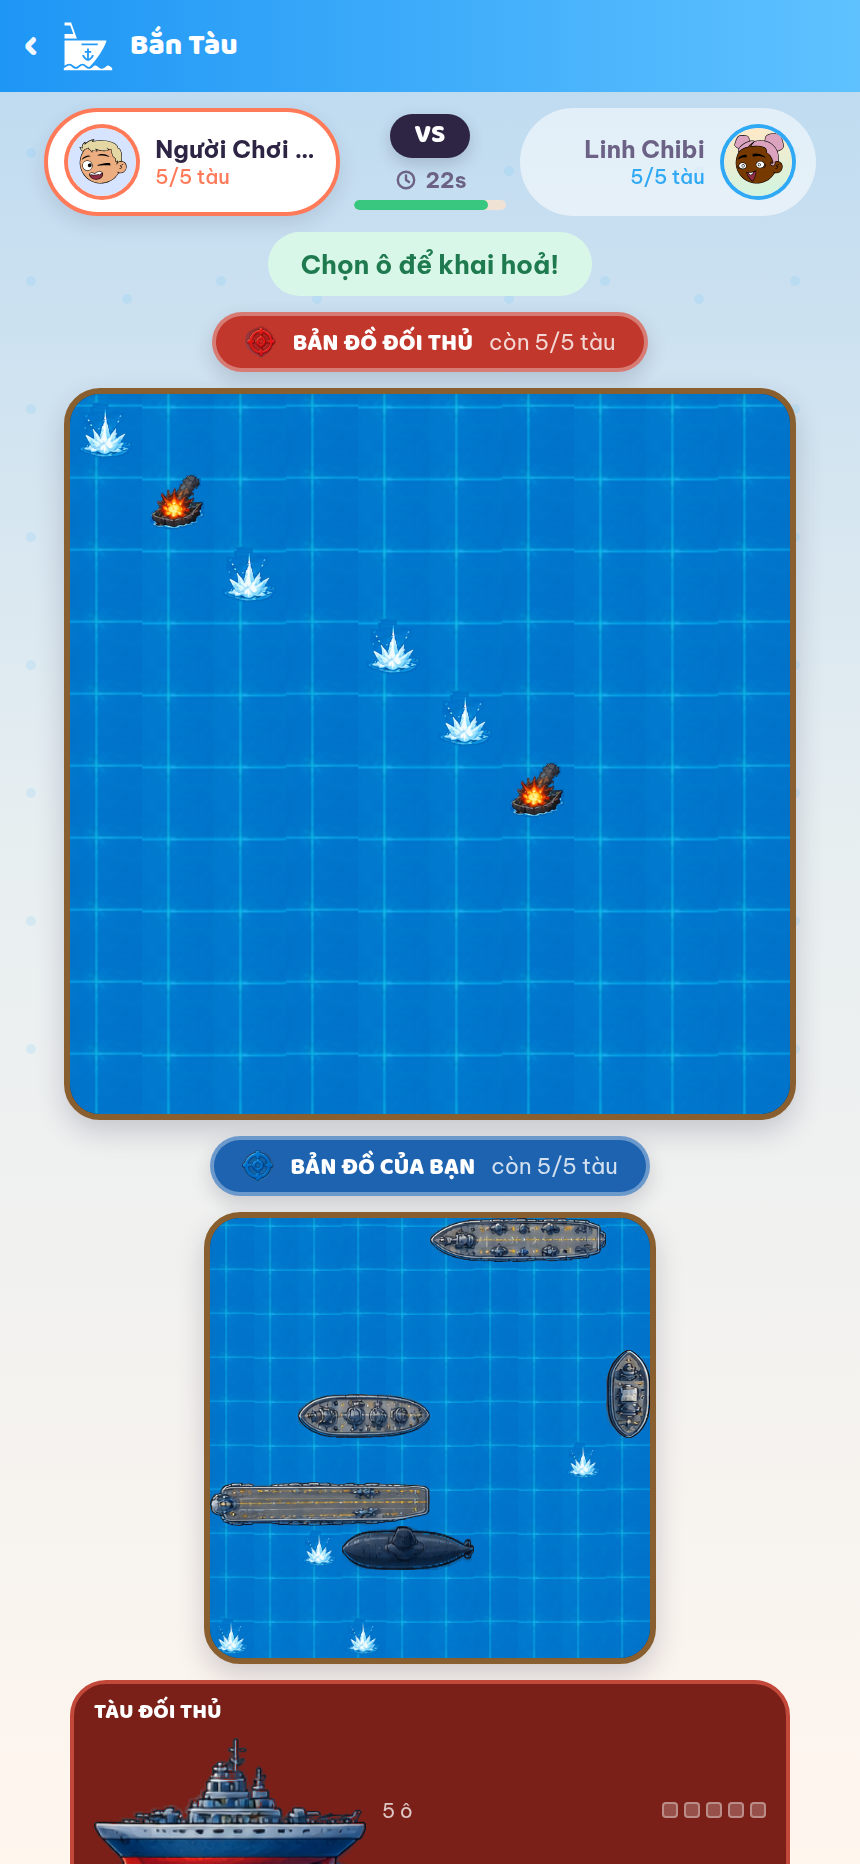
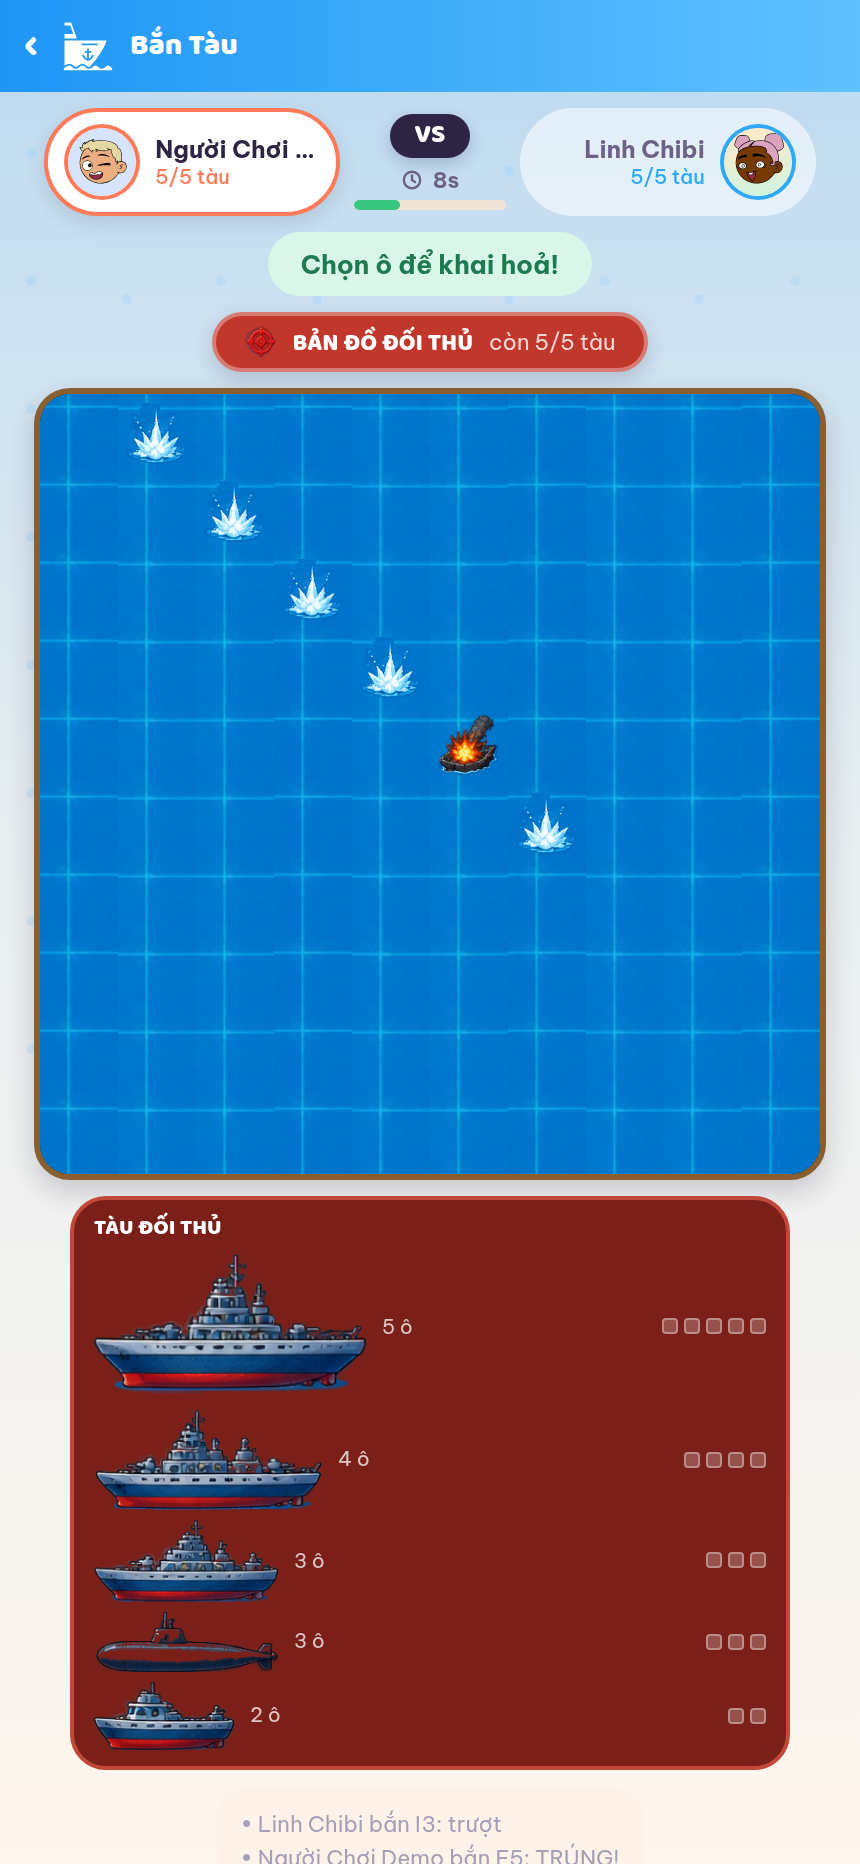
Bắn Tàu chỉ hiện một bàn, đổi theo lượt
Trước đây hai bàn nằm cùng màn hình nên bàn nào cũng bé và lúc đang ngắm bắn
vẫn thấy hạm đội của mình. Giờ mỗi lượt chỉ hiện đúng cái đang cần nhìn:

- Lượt mình: bàn địch, tàu giấu sạch, chỉ thấy chỗ đã bắn.
- Lượt địch: bàn nhà, thấy hạm đội của mình và đối thủ đang dò vào đâu.

Bảng hạm đội bên dưới đổi theo bàn đang xem. Bàn to gần gấp đôi.

diff --git a/apps/mobile/src/games/BattleshipBoard.tsx b/apps/mobile/src/games/BattleshipBoard.tsx
@@ -30,10 +30,14 @@ export default function BattleshipBoard({ view, mySeat, send, deadline, space }:
   const kinds = React.useMemo(() => fleetKinds(fleet), [fleet.join(',')]);
   const yourTurn = view.turnSeat === mySeat && !view.over && view.phase === 'battle';
 
-  // Bàn địch to để ngắm bắn, bàn mình nhỏ hơn nằm dưới.
+  /**
+   * Mỗi lượt chỉ hiện **một** bàn, đúng cái đang cần nhìn: tới lượt mình thì
+   * bàn địch (tàu giấu sạch, chỉ thấy chỗ đã bắn), tới lượt địch thì bàn nhà —
+   * lúc đó mới nhìn được hạm đội của chính mình và đối thủ đang bắn vào đâu.
+   * Nhờ vậy bàn to gần gấp đôi và không lộ tàu lúc đang ngắm bắn.
+   */
   const wide = Math.max(240, space.width - 16);
-  const foeCell = Math.max(16, Math.min(36, Math.floor(Math.min(wide, (space.height - 150) / 1.75) / size)));
-  const myCell = Math.max(11, Math.round(foeCell * 0.6));
+  const cell = Math.max(20, Math.floor(Math.min(wide, space.height - 250) / size));
 
   if (view.phase === 'placement') {
     return (
@@ -53,11 +57,16 @@ export default function BattleshipBoard({ view, mySeat, send, deadline, space }:
           <Btn label="Xếp tàu ngẫu nhiên" icon="dice" size="lg" onPress={() => send('place', {})} />
         )}
         {view.me?.placed ? (
-          <Grid size={size} cell={foeCell} shots={[]} ships={view.me?.ships ?? []} kinds={kinds} showShips />
+          <Grid size={size} cell={cell} shots={[]} ships={view.me?.ships ?? []} kinds={kinds} showShips />
         ) : null}
       </View>
     );
   }
+
+  const attacking = yourTurn || (view.over && view.winnerIds?.includes(view.players?.[mySeat]?.id));
+  const board = attacking
+    ? { title: 'Bản đồ đối thủ', tone: 'red' as const, alive: view.foe?.alive, total: view.foe?.total }
+    : { title: 'Bản đồ của bạn', tone: 'blue' as const, alive: view.me?.alive, total: view.me?.total };
 
   return (
     <View style={{ gap: S.sm, alignItems: 'center' }}>
@@ -69,23 +78,35 @@ export default function BattleshipBoard({ view, mySeat, send, deadline, space }:
         total={25}
         score={(seat) => (seat === mySeat ? `${view.me?.alive}/${view.me?.total} tàu` : `${view.foe?.alive}/${view.foe?.total} tàu`)}
       />
-      <TurnBanner yourTurn={yourTurn} text={view.over ? 'Kết thúc' : yourTurn ? 'Chọn ô để khai hoả!' : 'Đối thủ đang ngắm...'} />
-
-      <BoardHeader title="Bản đồ đối thủ" tone="red" note={`còn ${view.foe?.alive}/${view.foe?.total} tàu`} />
-      <Grid
-        size={size}
-        cell={foeCell}
-        shots={view.me?.shots ?? []}
-        ships={view.foe?.ships ?? []}
-        kinds={kinds}
-        interactive={yourTurn}
-        onPress={(x, y) => send('fire', { x, y })}
+      <TurnBanner
+        yourTurn={yourTurn}
+        text={view.over ? 'Kết thúc' : yourTurn ? 'Chọn ô để khai hoả!' : 'Đối thủ đang ngắm — canh xem họ bắn vào đâu'}
       />
 
-      <BoardHeader title="Bản đồ của bạn" tone="blue" note={`còn ${view.me?.alive}/${view.me?.total} tàu`} />
-      <Grid size={size} cell={myCell} shots={view.foe?.shots ?? []} ships={view.me?.ships ?? []} kinds={kinds} showShips />
+      <BoardHeader title={board.title} tone={board.tone} note={`còn ${board.alive}/${board.total} tàu`} />
 
-      <FleetPanel kinds={kinds} fleet={fleet} ships={view.foe?.ships ?? []} width={Math.min(wide, 360)} />
+      {attacking ? (
+        <Grid
+          size={size}
+          cell={cell}
+          shots={view.me?.shots ?? []}
+          ships={view.foe?.ships ?? []}
+          kinds={kinds}
+          interactive={yourTurn}
+          onPress={(x, y) => send('fire', { x, y })}
+        />
+      ) : (
+        <Grid size={size} cell={cell} shots={view.foe?.shots ?? []} ships={view.me?.ships ?? []} kinds={kinds} showShips />
+      )}
+
+      {/* Bảng hạm đội đi theo bàn đang xem */}
+      <FleetPanel
+        kinds={kinds}
+        fleet={fleet}
+        ships={attacking ? view.foe?.ships ?? [] : view.me?.ships ?? []}
+        mine={!attacking}
+        width={Math.min(wide, 360)}
+      />
       <GameLog log={view.log} />
     </View>
   );

diff --git a/README.md b/README.md
@@ -95,7 +95,7 @@ Mobile (RN/Expo) ──REST──> Express API ──> SQLite (WAL)
 | Game | Người chơi | Thể loại | Chế độ | Điểm kỹ thuật |
 |---|---|---|---|---|
 | Cờ Caro | 2 | Board strategy | Normal/Ranked/Custom | Bàn cấu hình 9–19, luật đúng-5-quân |
-| Bắn Tàu | 2 | Turn-based | Normal/Ranked/Custom | Hidden board, trúng được bắn tiếp |
+| Bắn Tàu | 2 | Turn-based | Normal/Ranked/Custom | Mỗi lượt chỉ hiện một bàn, trúng được bắn tiếp |
 | Ô Ăn Quan | 2 | Board dân gian | Normal/Ranked/Custom | Rải, ăn dây, rải lại khi hết dân |
 | Sheep Battle | 2 | Realtime lane battle | Normal/Ranked/Custom | Đấu làn 30 máu, cừu nhỏ trừ nhiều máu, cừu to đẩy khoẻ |
 | Cờ Tỷ Phú | 2–4 | Board/economy | Normal/Custom | Bàn 24 ô, độc quyền x2 tô, tù, phá sản |
@@ -324,6 +324,12 @@ dải chuyển màu tối chứ không phải nền trắng:
   lệch màu) nên chỉ còn đúng hình.
 - Tàu nhìn từ trên được kéo phủ đúng số ô nó chiếm; giữ nguyên tỉ lệ thì tàu
   ngắn hơn ô của nó vì bản vẽ gốc vẽ tàu mập hơn một ô.
+
+Trong trận **chỉ hiện một bàn**, đổi theo lượt: tới lượt mình thì hiện bàn địch
+với tàu giấu sạch, chỉ thấy chỗ đã bắn; tới lượt địch thì hiện bàn nhà, lúc đó
+mới nhìn được hạm đội của chính mình và đối thủ đang dò vào đâu. Bảng hạm đội
+bên dưới cũng đổi theo. Nhờ vậy bàn to gần gấp đôi và không lộ tàu lúc đang
+ngắm bắn.
 
 **Không dùng emoji ở bất kỳ đâu trong giao diện** — emoji mỗi hệ điều hành vẽ một
 kiểu, không đổi được màu theo ngữ cảnh và không canh được nét với chữ.
